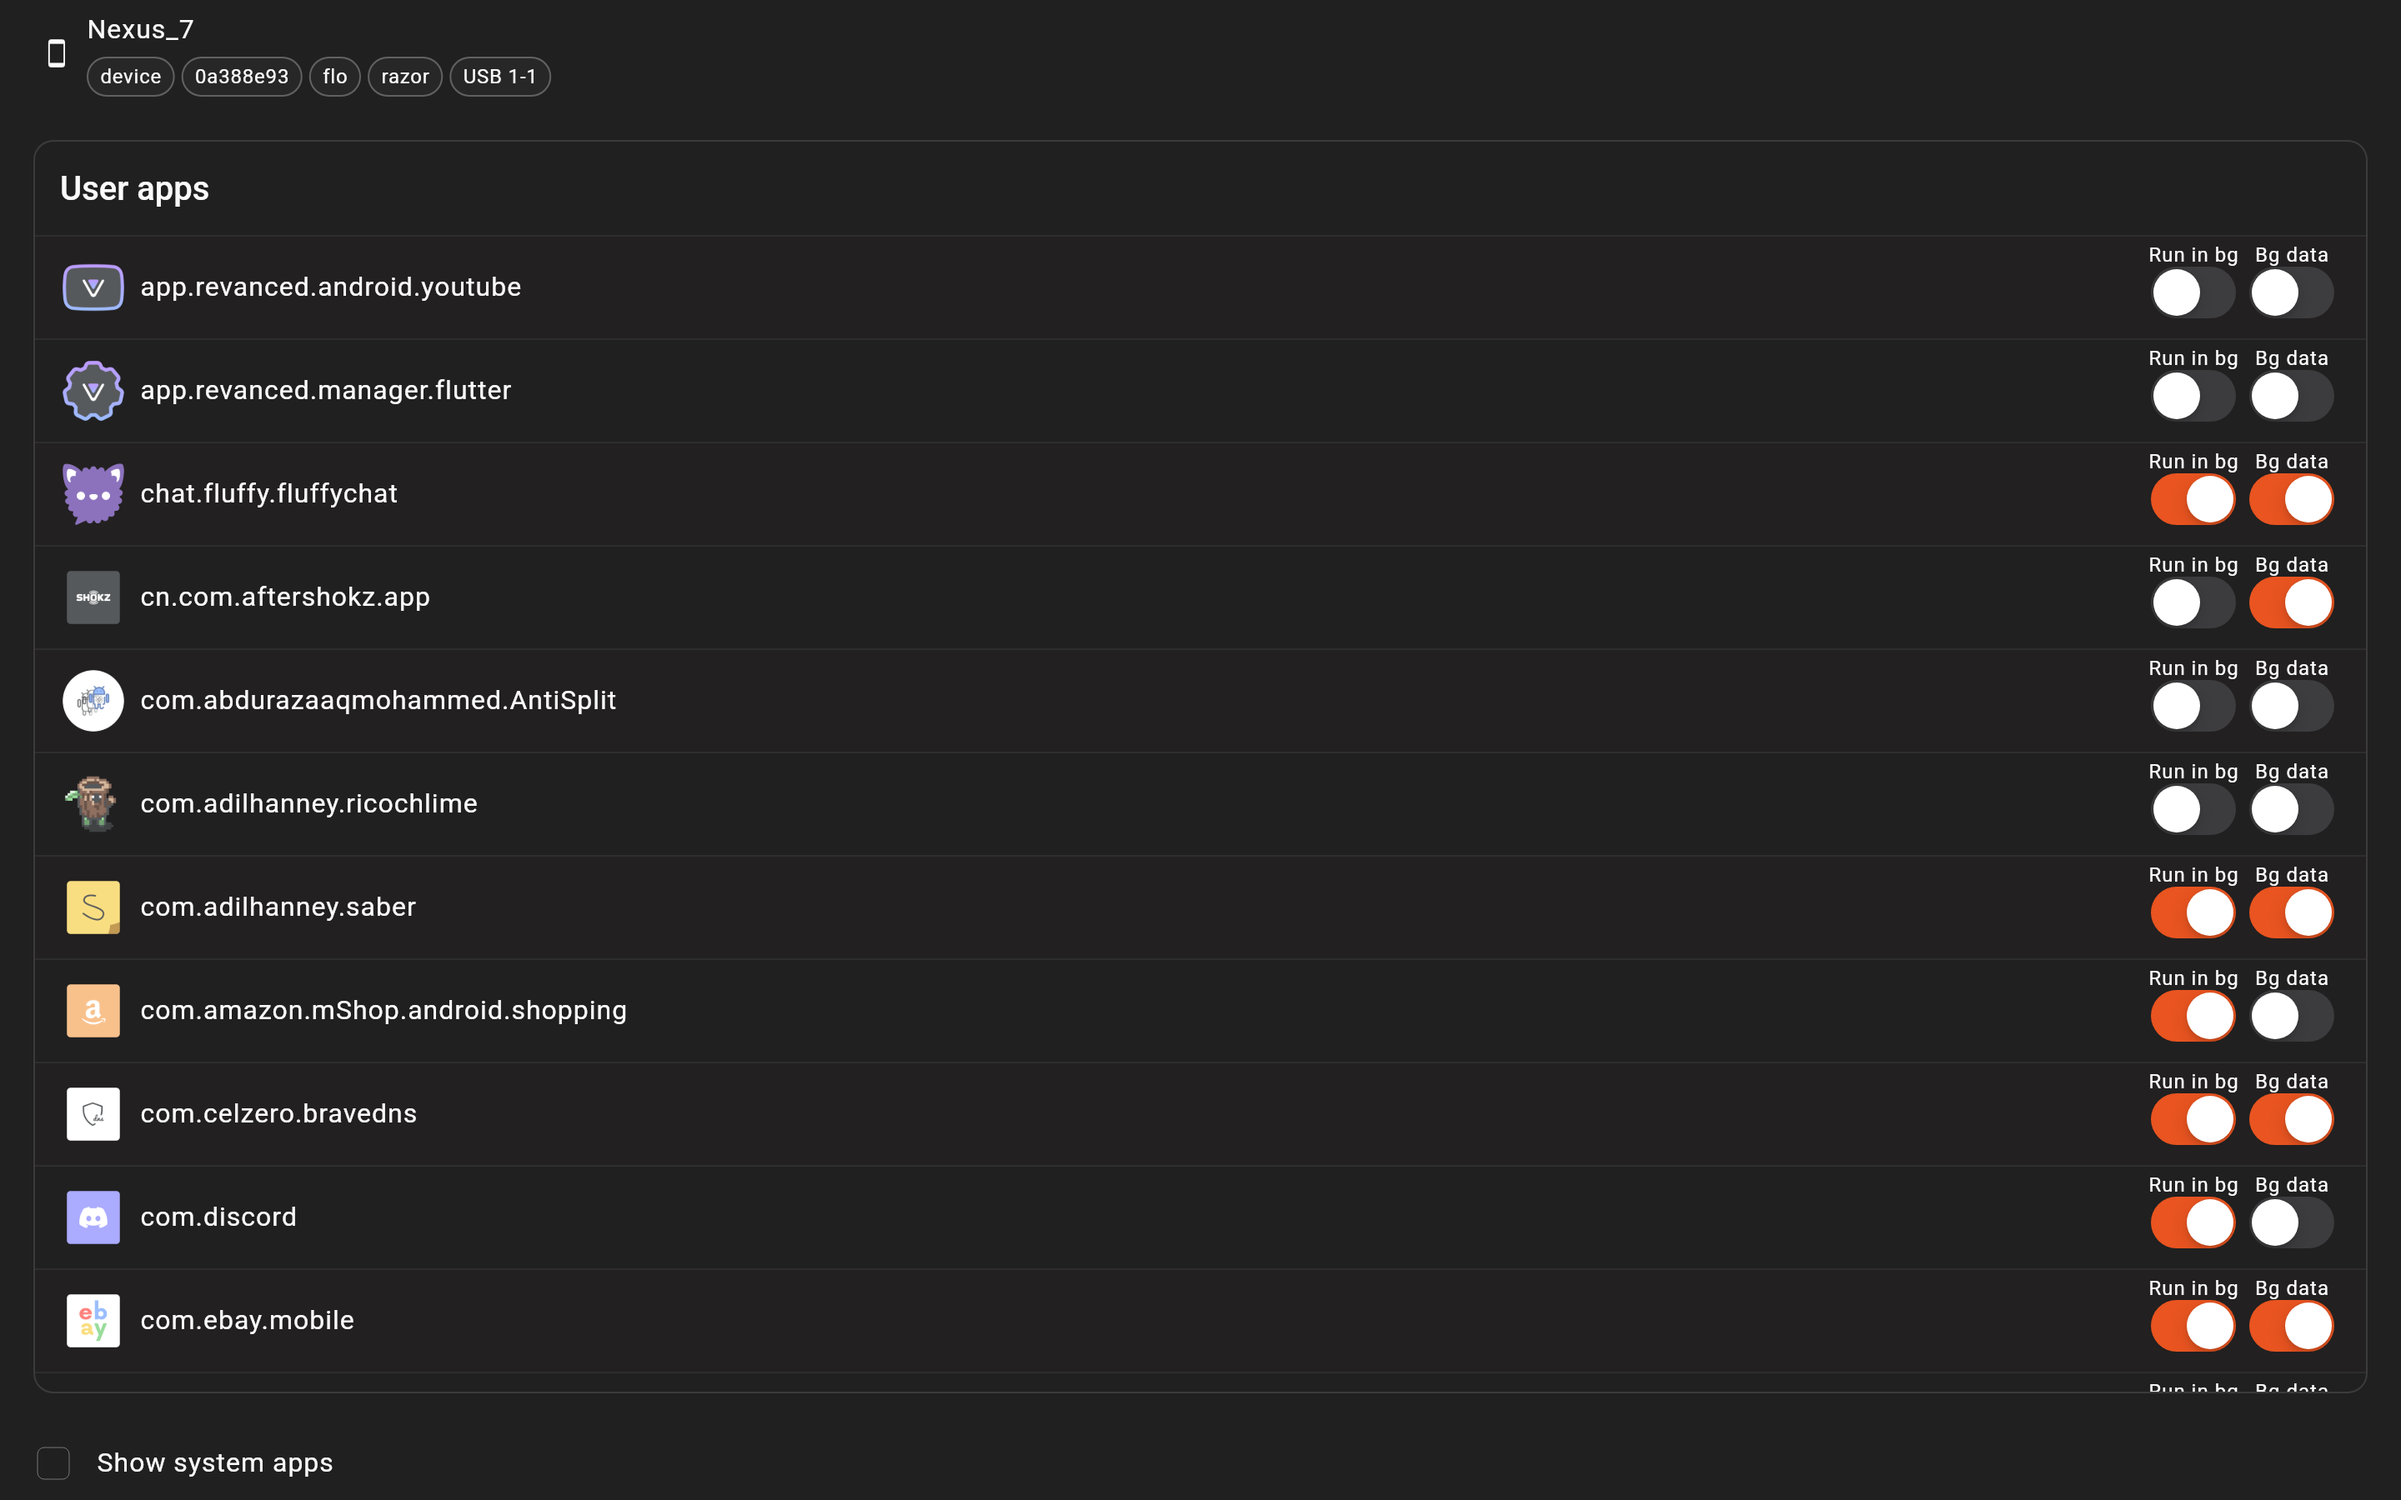
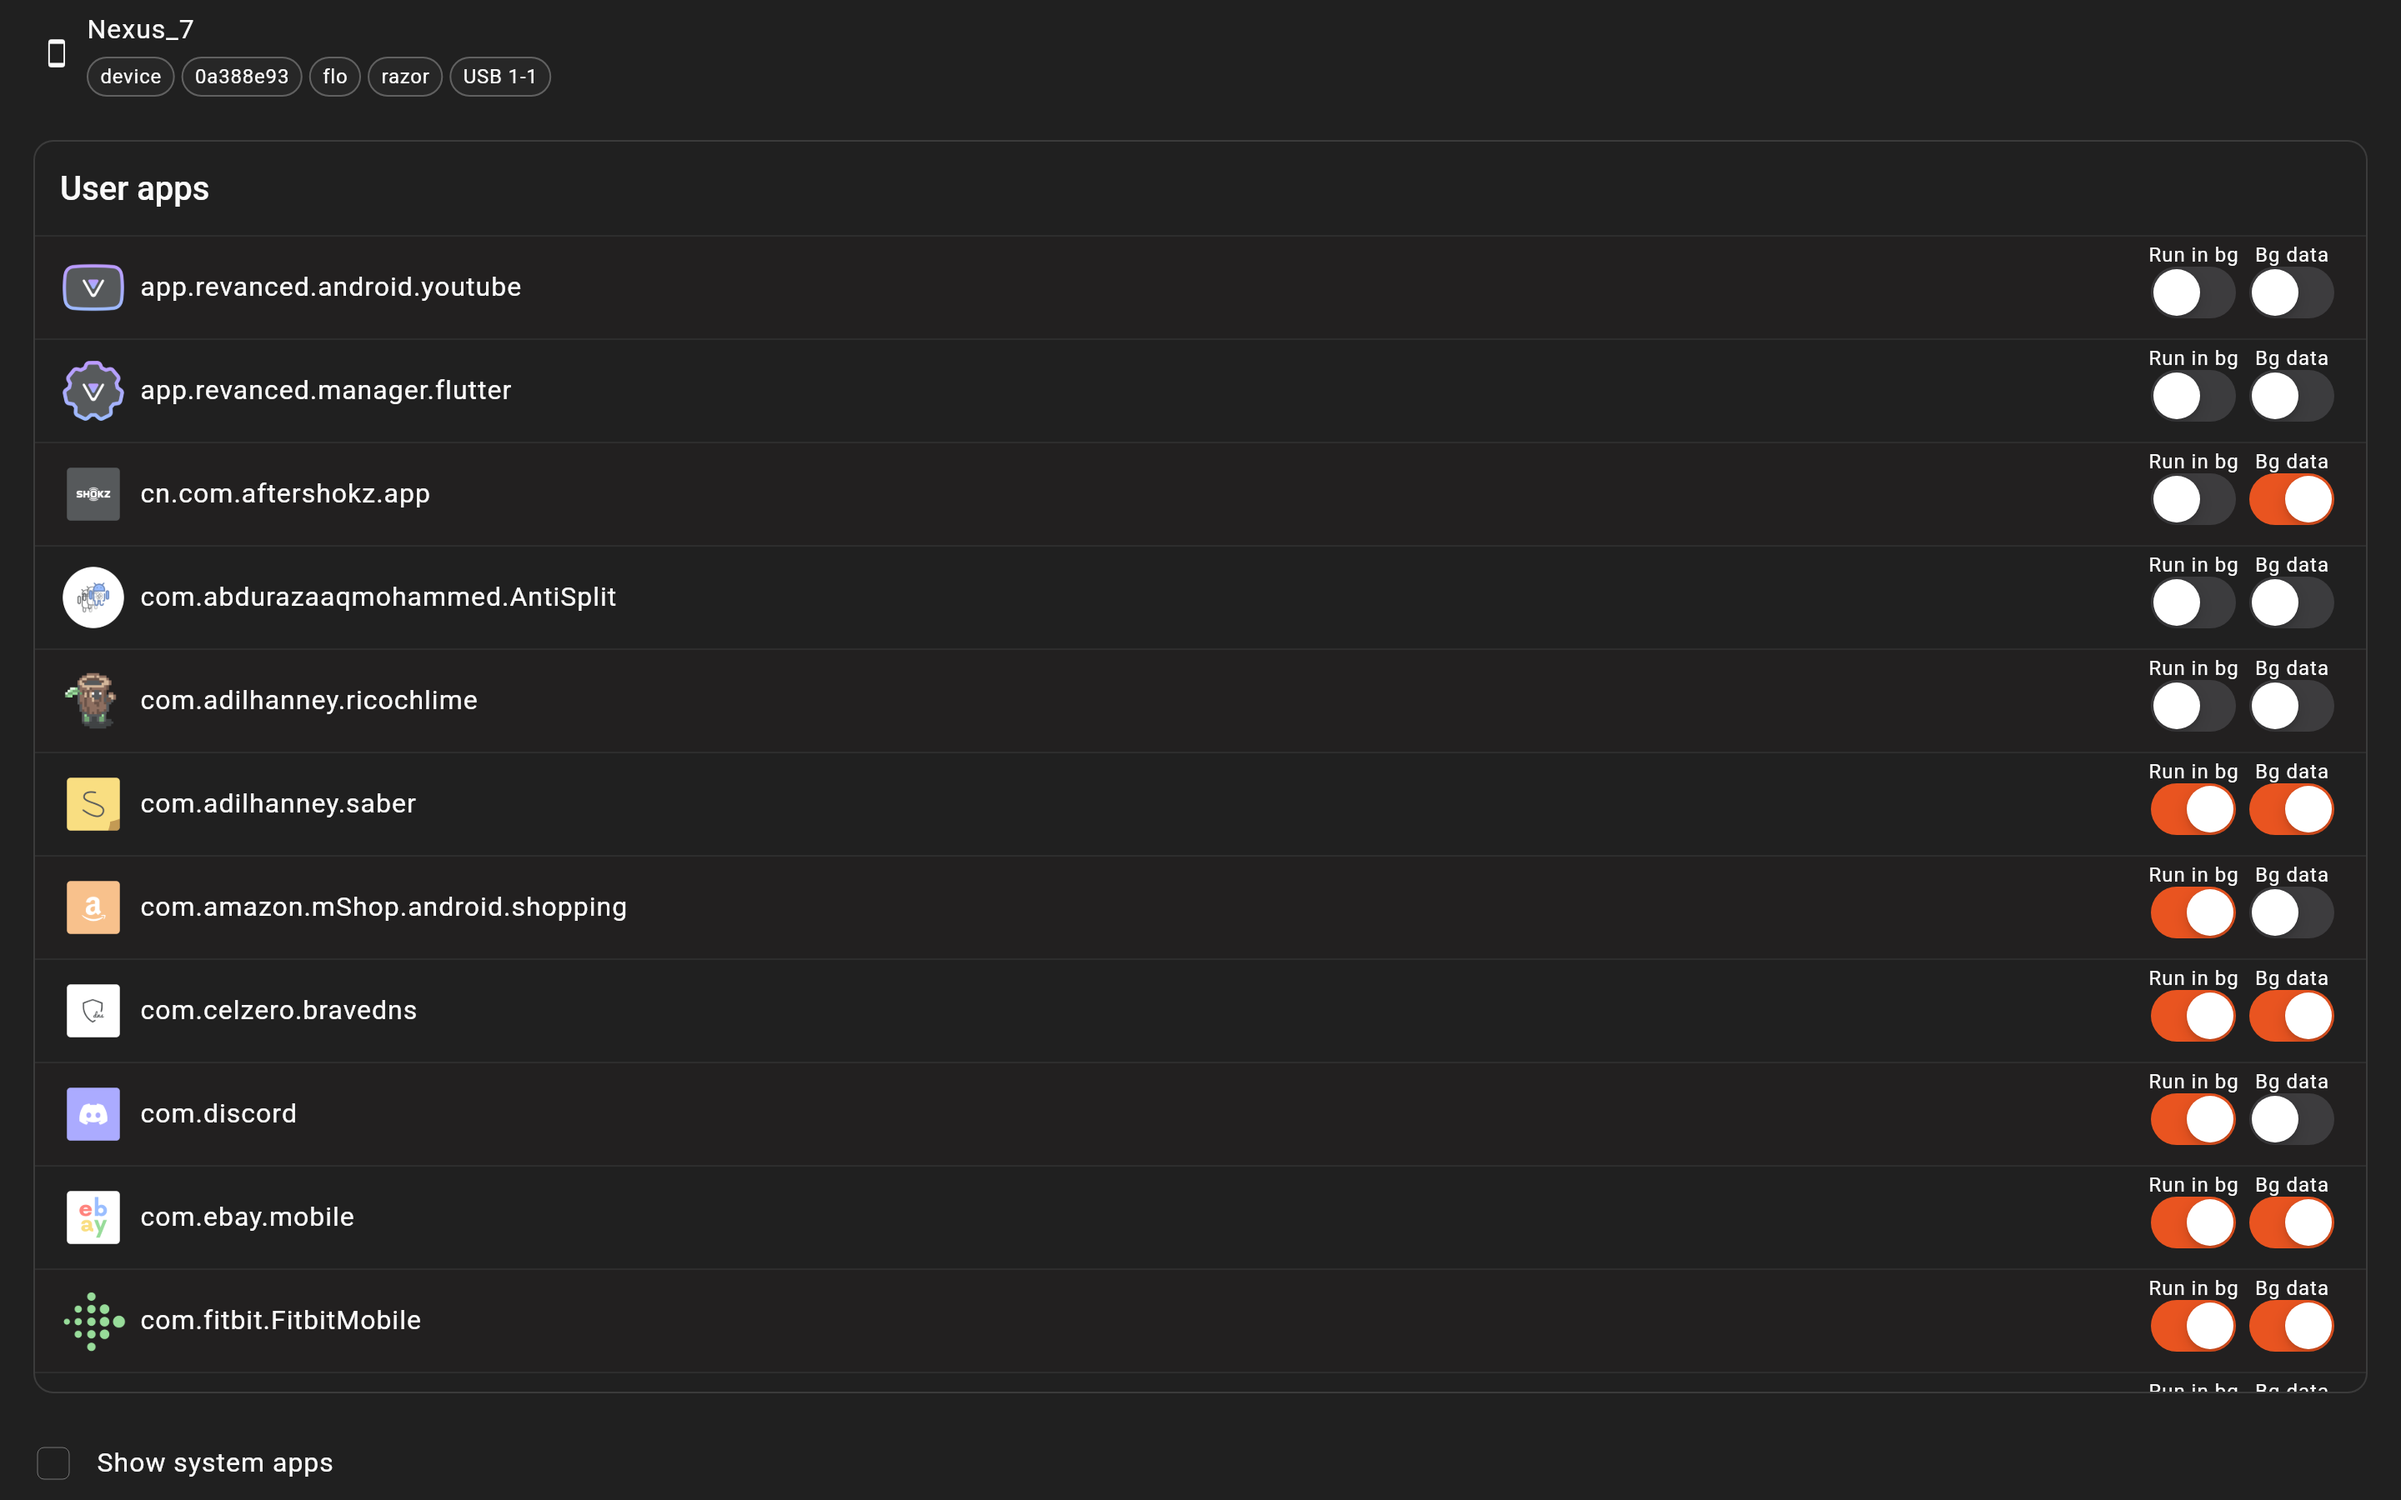
test: golden for system apps

diff --git a/test/util/test_adb_impl.dart b/test/util/test_adb_impl.dart
@@ -22,6 +22,9 @@ emulator-5554 unauthorized product:sdk_google_phone_x86 model:Android_SDK_built_
   Future<(String, String)> getApps(AdbDevice device) async => getAppsOutput;
   var getAppsOutput = (
     '''
+package:android  installer=null uid:1000
+package:android.auto_generated_rro_product__  installer=null uid:1001
+package:android.auto_generated_rro_vendor__  installer=null uid:1002
 package:com.android.vending  installer=com.android.vending uid:9973
 package:com.android.systemui  installer=null uid:9810
 package:com.google.android.youtube  installer=com.android.vending uid:10021
@@ -29,7 +32,6 @@ package:com.google.android.youtube  installer=com.android.vending uid:10021
     '''
 package:app.revanced.android.youtube  installer=null uid:10045
 package:app.revanced.manager.flutter  installer=null uid:10050
-package:chat.fluffy.fluffychat  installer=null uid:10055
 package:cn.com.aftershokz.app  installer=com.android.vending uid:10060
 package:com.abdurazaaqmohammed.AntiSplit  installer=com.google.android.packageinstaller uid:10065
 package:com.adilhanney.ricochlime  installer=com.android.vending uid:10075

diff --git a/test/golden_screenshot_test.dart b/test/golden_screenshot_test.dart
@@ -54,6 +54,28 @@ void main() {
         );
       },
     );
+
+    _screenshot(
+      '3_system_apps',
+      home: AppsPage(device: _device),
+      beforeScreenshot: (tester) async {
+        await tester.tap(find.text('Show system apps'));
+        await tester.pump();
+        final state = tester.state<AppsPageState>(find.byType(AppsPage));
+        await state.restrictedDataAppUids;
+        await tester.pump();
+        expect(
+          state.apps,
+          isNotEmpty,
+          reason: 'AppsPage should load apps ASAP',
+        );
+        expect(
+          state.permissionMap.keys,
+          containsAll(state.apps),
+          reason: 'Permissions should be loaded ASAP',
+        );
+      },
+    );
   });
 }
 
